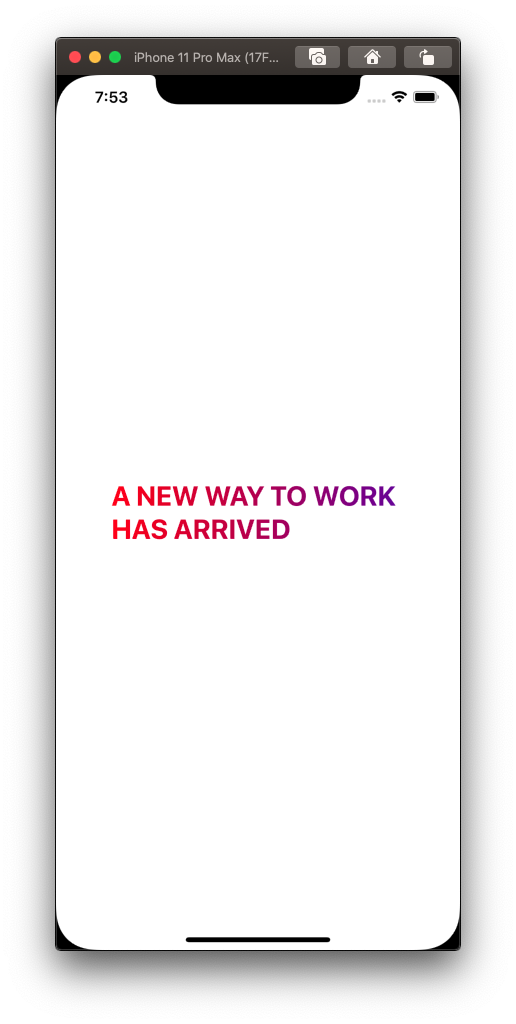
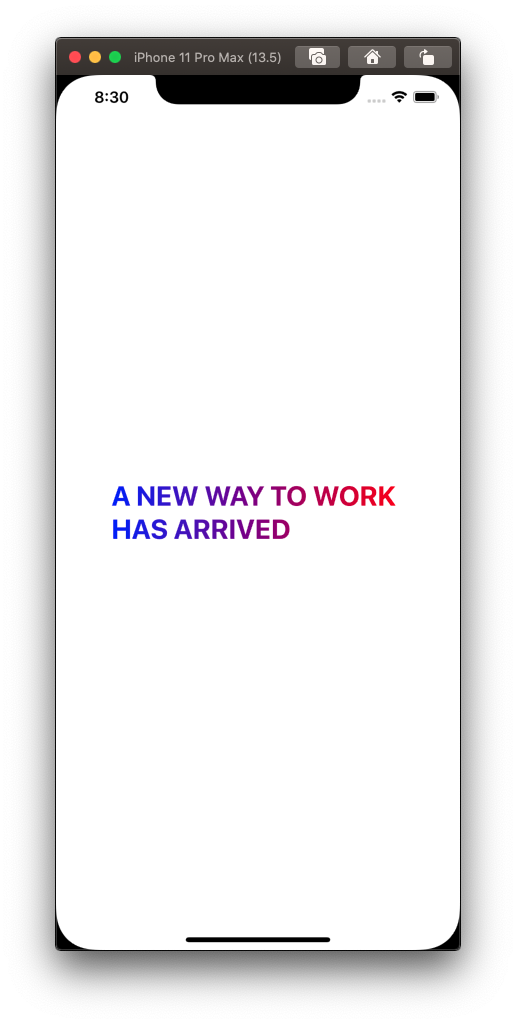
cleanup

diff --git a/basics/CoreGraphics/README.md b/basics/CoreGraphics/README.md
@@ -201,7 +201,7 @@ import UIKit
 
 class ViewController: UIViewController {
 
-    let label = UILabel()
+    let label = GradientLabel()
 
     override func viewDidLoad() {
         super.viewDidLoad()
@@ -217,13 +217,7 @@ class ViewController: UIViewController {
 
         label.text = "A NEW WAY TO WORK HAS ARRIVED"
 
-        if label.applyGradientWith(startColor: .red, endColor: .blue) {
-            print("Gradient applied!")
-        }
-        else {
-            print("Could not apply gradient")
-            label.textColor = .black
-        }
+        label.gradientColors = [UIColor.blue.cgColor, UIColor.red.cgColor]
     }
 
     func layout() {
@@ -237,80 +231,47 @@ class ViewController: UIViewController {
     }
 }
 
-extension UILabel {
-
-    func applyGradientWith(startColor: UIColor, endColor: UIColor) -> Bool {
-
-        var startColorRed:CGFloat = 0
-        var startColorGreen:CGFloat = 0
-        var startColorBlue:CGFloat = 0
-        var startAlpha:CGFloat = 0
-
-        if !startColor.getRed(&startColorRed, green: &startColorGreen, blue: &startColorBlue, alpha: &startAlpha) {
-            return false
-        }
-
-        var endColorRed:CGFloat = 0
-        var endColorGreen:CGFloat = 0
-        var endColorBlue:CGFloat = 0
-        var endAlpha:CGFloat = 0
-
-        if !endColor.getRed(&endColorRed, green: &endColorGreen, blue: &endColorBlue, alpha: &endAlpha) {
-            return false
-        }
-
-        let gradientText = self.text ?? ""
-
-        let textSize: CGSize = gradientText.size(withAttributes:
-            [NSAttributedString.Key.font: self.font as Any])
-        let width:CGFloat = textSize.width
-        let height:CGFloat = textSize.height
-
-        UIGraphicsBeginImageContext(CGSize(width: width, height: height))
-
-        guard let context = UIGraphicsGetCurrentContext() else {
-            UIGraphicsEndImageContext()
-            return false
-        }
-
-        UIGraphicsPushContext(context)
-
-        let glossGradient:CGGradient?
-        let rgbColorspace:CGColorSpace?
-        let num_locations:size_t = 2
-        let locations:[CGFloat] = [ 0.0, 1.0 ]
-        let components:[CGFloat] = [startColorRed, startColorGreen, startColorBlue, startAlpha, endColorRed, endColorGreen, endColorBlue, endAlpha]
-        rgbColorspace = CGColorSpaceCreateDeviceRGB()
-        glossGradient = CGGradient(colorSpace: rgbColorspace!, colorComponents: components, locations: locations, count: num_locations)
-        let topCenter = CGPoint.zero
-//        let bottomCenter = CGPoint(x: 0, y: textSize.height) // top > bottom
-        let bottomCenter = CGPoint(x: textSize.width, y: 0) // left > right
-        context.drawLinearGradient(glossGradient!, start: topCenter, end: bottomCenter, options: CGGradientDrawingOptions.drawsBeforeStartLocation)
-
-        UIGraphicsPopContext()
-
-        guard let gradientImage = UIGraphicsGetImageFromCurrentImageContext() else {
-            UIGraphicsEndImageContext()
-            return false
-        }
-
-        UIGraphicsEndImageContext()
-
-        self.textColor = UIColor(patternImage: gradientImage)
-
-        return true
-    }
-
-}
 
 extension UIFont {
     func withTraits(traits: UIFontDescriptor.SymbolicTraits) -> UIFont {
         let descriptor = fontDescriptor.withSymbolicTraits(traits)
         return UIFont(descriptor: descriptor!, size: 0) //size 0 means keep the size as it is
     }
-
     func bold() -> UIFont {
         return withTraits(traits: .traitBold)
+    }
+}
+
+class GradientLabel: UILabel {
+    var gradientColors: [CGColor] = []
+
+    override func drawText(in rect: CGRect) {
+        if let gradientColor = drawGradientColor(in: rect, colors: gradientColors) {
+            self.textColor = gradientColor
+        }
+        super.drawText(in: rect)
+    }
+
+    private func drawGradientColor(in rect: CGRect, colors: [CGColor]) -> UIColor? {
+        let currentContext = UIGraphicsGetCurrentContext()
+        currentContext?.saveGState()
+        defer { currentContext?.restoreGState() }
+
+        let size = rect.size
+        UIGraphicsBeginImageContextWithOptions(size, false, 0)
+        guard let gradient = CGGradient(colorsSpace: CGColorSpaceCreateDeviceRGB(),
+                                        colors: colors as CFArray,
+                                        locations: nil) else { return nil }
+
+        let context = UIGraphicsGetCurrentContext()
+        context?.drawLinearGradient(gradient,
+                                    start: CGPoint.zero,
+                                    end: CGPoint(x: size.width, y: 0),
+                                    options: [])
+        let gradientImage = UIGraphicsGetImageFromCurrentImageContext()
+        UIGraphicsEndImageContext()
+        guard let image = gradientImage else { return nil }
+        return UIColor(patternImage: image)
     }
 }
 ```
